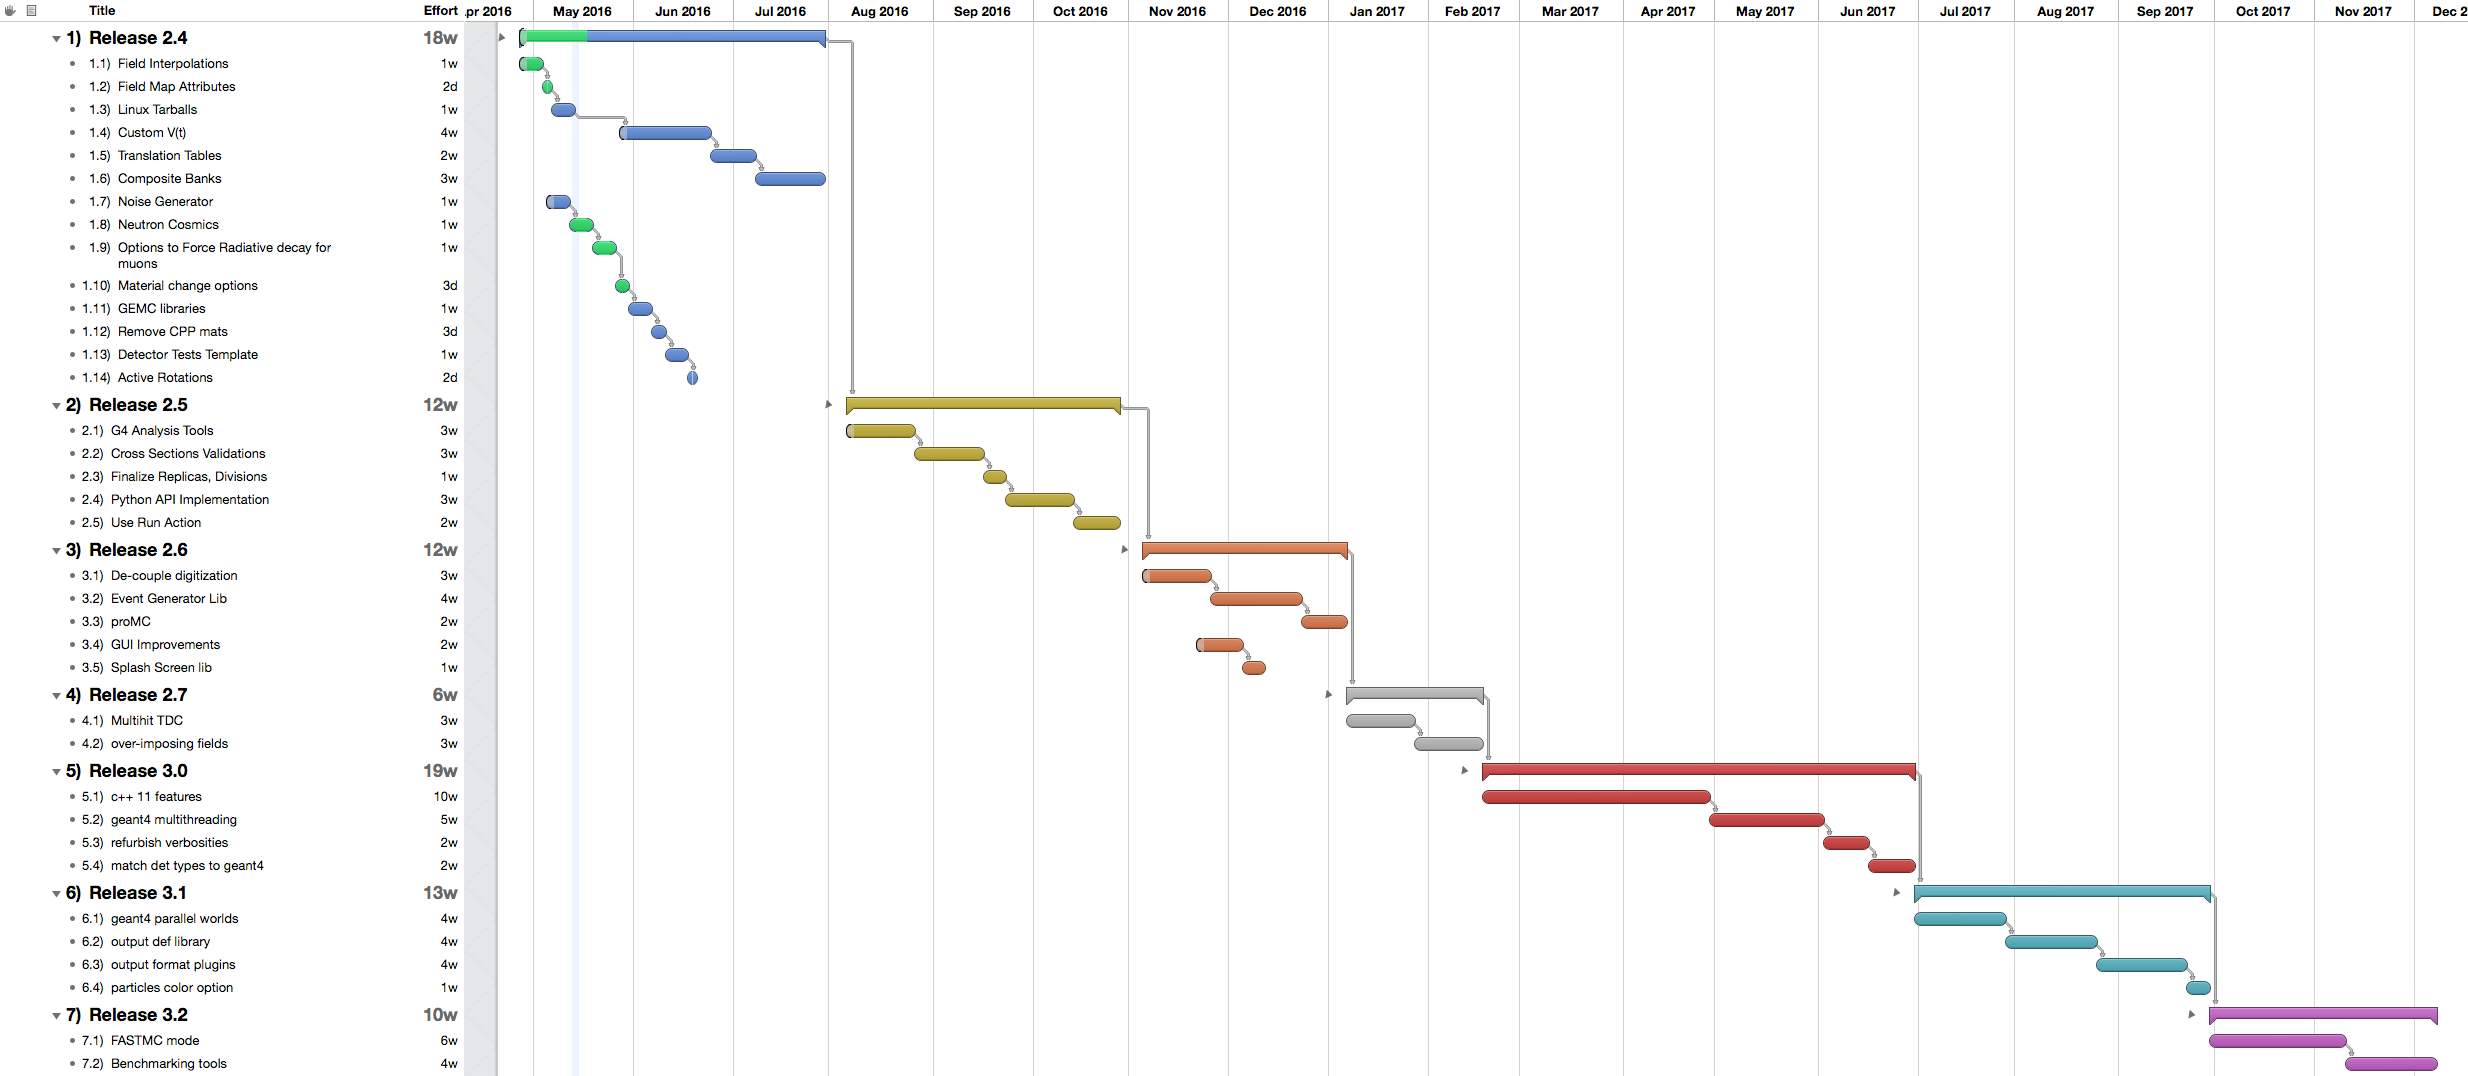
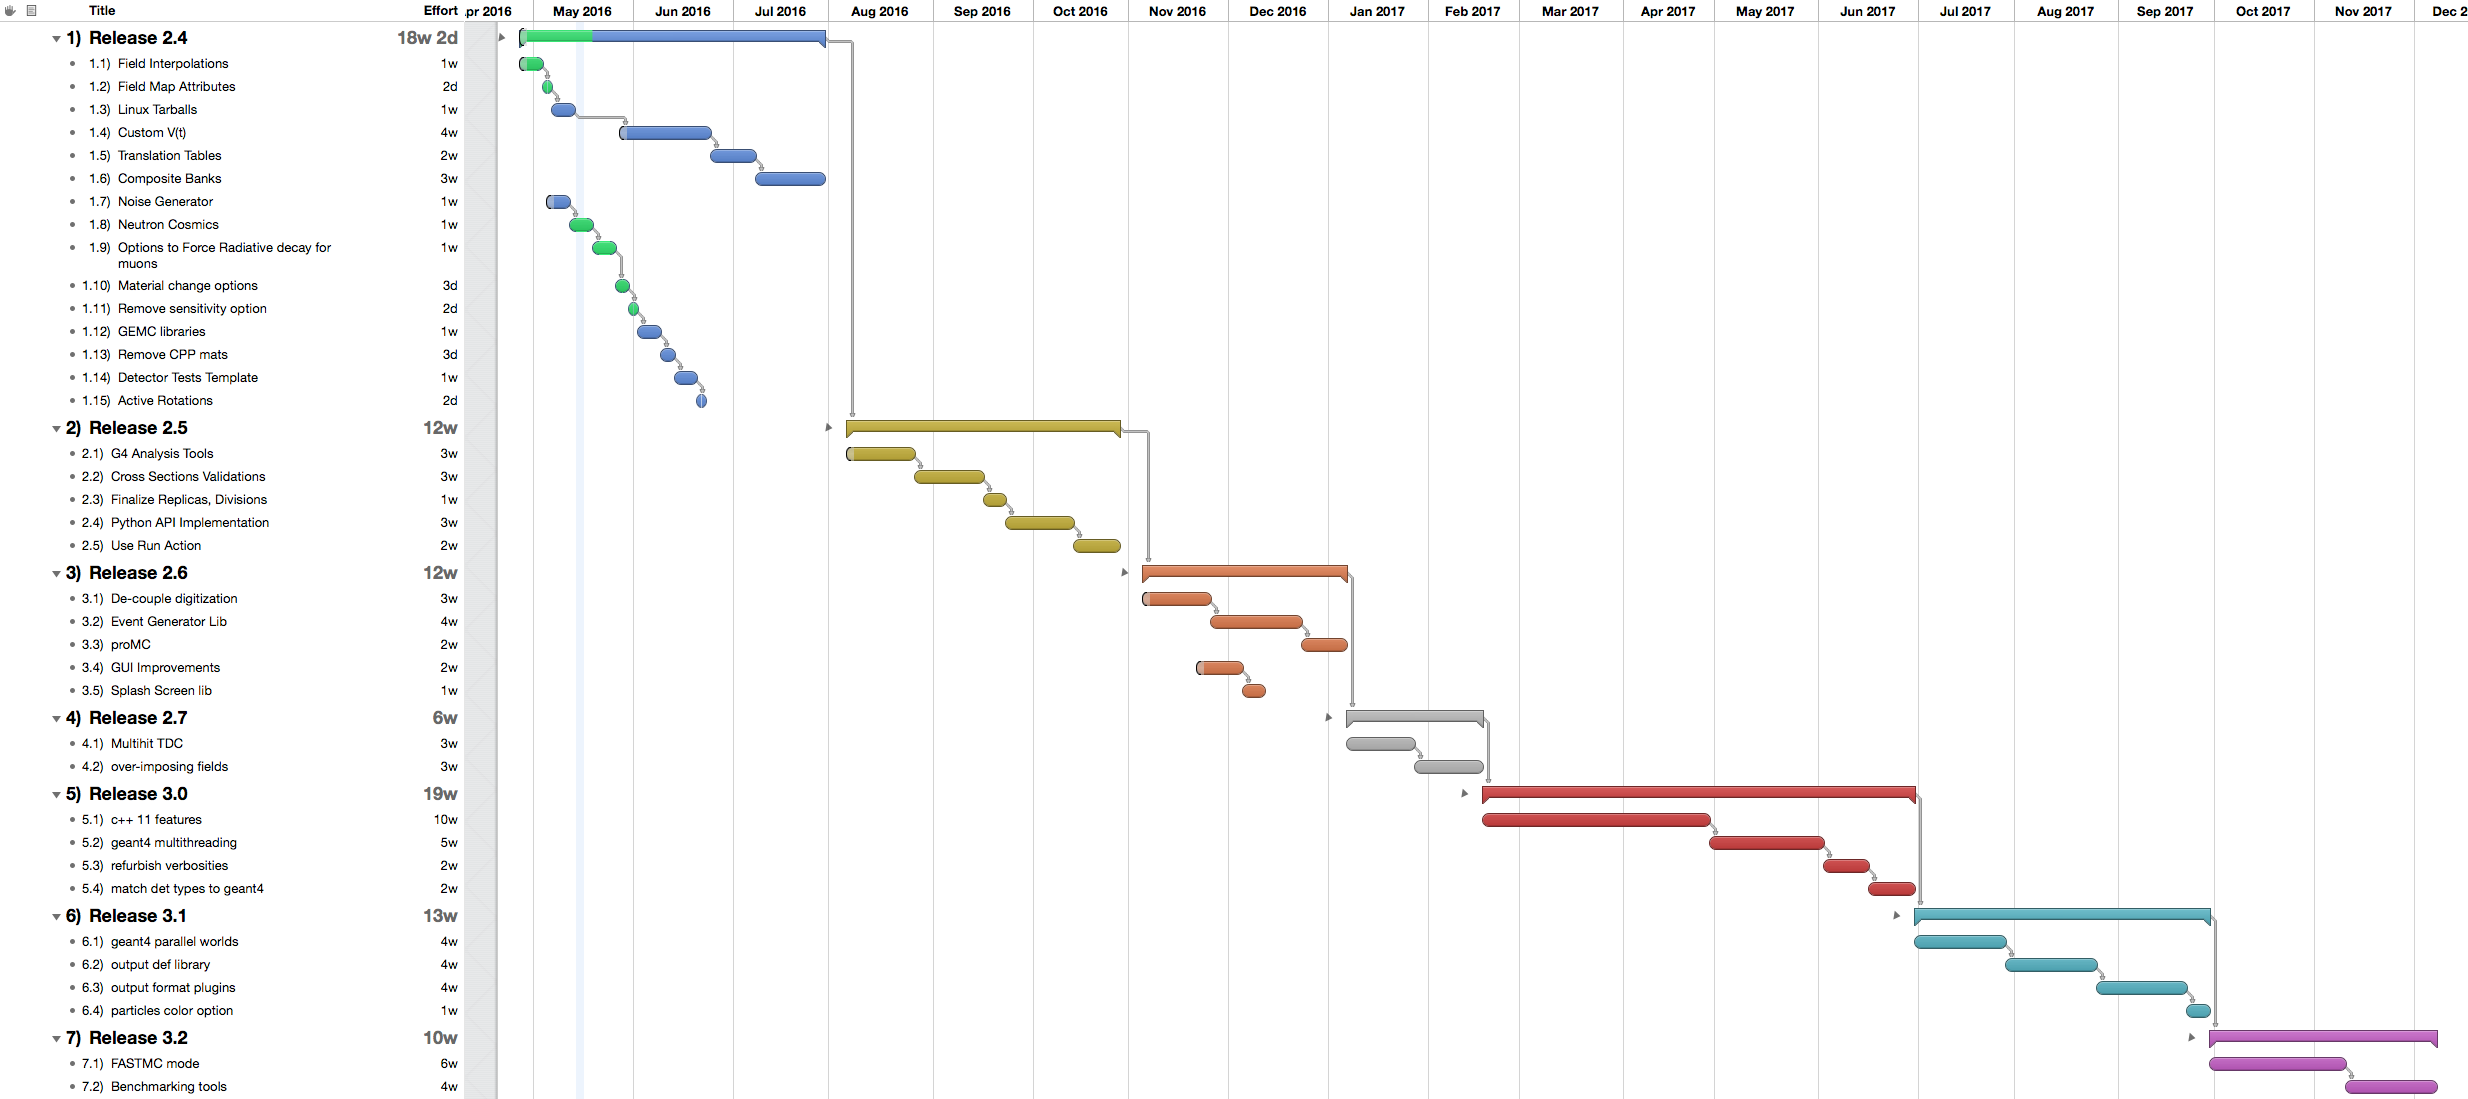
completed remove sensitivity option

diff --git a/webPage/source/documentation/releases/roadmap.rst b/webPage/source/documentation/releases/roadmap.rst
@@ -51,7 +51,7 @@ GEMC 2.4
 
 - Starting to move utility source code to **GEMC/libraries** github.
 
-- Removing sensitivity option for a given detector.
+- Remove sensitivity option. ✅
 
 - Test suite for individual detectors.
 
